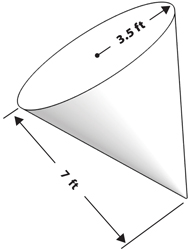
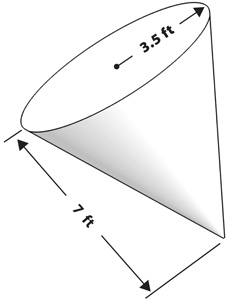
cc.1, v.1 corrections- v.1, resize illustration 7x3.5 cone problem 8

diff --git a/app/data372/data_v_1.js b/app/data372/data_v_1.js
@@ -1354,7 +1354,7 @@ angular.module('mathSkills').service('data_v_1', ['dataUtils', function (dataUti
 					ansDen: '25',
 					measure: 'ft',
 					solution: dataUtils.pre(
-							'\\pan{2}{10}'
+							'\\pan{3}{9}'
 								+'{\\css'
 									+'{\\rowgrp'
 										+'{\\str{$$answerInstructions}}'
@@ -1383,10 +1383,13 @@ angular.module('mathSkills').service('data_v_1', ['dataUtils', function (dataUti
 												+'{width140}'
 											+'}'
 											+'{\\str{V = }}'
-											+'{\\frac'
+											+'{\\css'
+												+'{\\frac'
 													+'{\\str{1}}'
 													+'{\\str{3}}'
 												+'}'
+												+'{fracNoMargin}'
+											+'}'
 											+'{\\str{*}}'
 											+'{\\str{&pi;}}'
 											+'{\\str{*}}'
@@ -1401,14 +1404,20 @@ angular.module('mathSkills').service('data_v_1', ['dataUtils', function (dataUti
 												+'{width140}'
 											+'}'
 											+'{\\str{V = }}'
-											+'{\\frac'
+											+'{\\css'
+												+'{\\frac'
 													+'{\\str{1}}'
 													+'{\\str{3}}'
 												+'}'
+												+'{fracNoMargin}'
+											+'}'
 											+'{\\str{*}}'
-											+'{\\frac'
-												+'{\\str{22}}'
-												+'{\\str{7}}'
+											+'{\\css'
+												+'{\\frac'
+													+'{\\str{22}}'
+													+'{\\str{7}}'
+												+'}'
+												+'{fracNoMargin}'
 											+'}'
 											+'{\\str{*}}'
 											+'{\\exp'
@@ -1429,12 +1438,15 @@ angular.module('mathSkills').service('data_v_1', ['dataUtils', function (dataUti
 												+'{\\str{2}}'
 											+'}'
 											+'{\\str{*}}'
-											+'{\\mixed'
-												+'{\\str{8}}'
-												+'{\\frac'
-													+'{\\str{1}}'
-													+'{\\str{2}}'
+											+'{\\css'
+												+'{\\mixed'
+													+'{\\str{8}}'
+													+'{\\frac'
+														+'{\\str{1}}'
+														+'{\\str{2}}'
+													+'}'
 												+'}'
+												+'{fracNoMargin}'
 											+'}'
 										+'}'
 										+'{\\str{&nbsp;}}'
@@ -1483,7 +1495,7 @@ angular.module('mathSkills').service('data_v_1', ['dataUtils', function (dataUti
 					ansDen: '21',
 					measure: 'ft',
 					solution: dataUtils.pre(
-							'\\pan{2}{10}'
+							'\\pan{3}{9}'
 								+'{\\css'
 									+'{\\rowgrp'
 										+'{\\str{$$answerInstructions}}'
@@ -1512,10 +1524,13 @@ angular.module('mathSkills').service('data_v_1', ['dataUtils', function (dataUti
 												+'{width140}'
 											+'}'
 											+'{\\str{V = }}'
-											+'{\\frac'
+											+'{\\css'
+												+'{\\frac'
 													+'{\\str{1}}'
 													+'{\\str{3}}'
 												+'}'
+												+'{fracNoMargin}'
+											+'}'
 											+'{\\str{*}}'
 											+'{\\str{&pi;}}'
 											+'{\\str{*}}'
@@ -1530,14 +1545,20 @@ angular.module('mathSkills').service('data_v_1', ['dataUtils', function (dataUti
 												+'{width140}'
 											+'}'
 											+'{\\str{V = }}'
-											+'{\\frac'
+											+'{\\css'
+												+'{\\frac'
 													+'{\\str{1}}'
 													+'{\\str{3}}'
 												+'}'
+												+'{fracNoMargin}'
+											+'}'
 											+'{\\str{*}}'
-											+'{\\frac'
-												+'{\\str{22}}'
-												+'{\\str{7}}'
+											+'{\\css'
+												+'{\\frac'
+													+'{\\str{22}}'
+													+'{\\str{7}}'
+												+'}'
+												+'{fracNoMargin}'
 											+'}'
 											+'{\\str{*}}'
 											+'{\\exp'
@@ -1558,12 +1579,15 @@ angular.module('mathSkills').service('data_v_1', ['dataUtils', function (dataUti
 												+'{\\str{2}}'
 											+'}'
 											+'{\\str{*}}'
-											+'{\\mixed'
-												+'{\\str{4}}'
-												+'{\\frac'
-													+'{\\str{1}}'
-													+'{\\str{2}}'
+											+'{\\css'
+												+'{\\mixed'
+													+'{\\str{4}}'
+													+'{\\frac'
+														+'{\\str{1}}'
+														+'{\\str{2}}'
+													+'}'
 												+'}'
+												+'{fracReducedRightMargin}'
 											+'}'
 										+'}'
 										+'{\\str{&nbsp;}}'

diff --git a/app/data372/data_cc_1.js b/app/data372/data_cc_1.js
@@ -1563,7 +1563,26 @@ angular.module('mathSkills').service('data_cc_1', ['dataUtils', function (dataUt
 											+'}'
 											+'{fracNoMargin}'
 										+'}'
-										+'{\\str{ * <strong>(5)</strong> = 1 * <strong>(5)</strong>}}'
+										+'{\\str{ * }}'
+										+'{\\str{(}}'
+										+'{\\css'
+											+'{\\frac'
+												+'{\\str{<strong>5</strong>}}'
+												+'{\\str{<strong>1</strong>}}'
+											+'}'
+											+'{fracNoMargin}'
+										+'}'
+										+'{\\str{)}}'
+										+'{\\str{ = 1 * }}'
+										+'{\\str{(}}'
+										+'{\\css'
+											+'{\\frac'
+												+'{\\str{<strong>5</strong>}}'
+												+'{\\str{<strong>1</strong>}}'
+											+'}'
+											+'{fracNoMargin}'
+										+'}'
+										+'{\\str{)}}'
 						),
 					secondHelpResult: 'x = 5',
 					helpStringAnswer: '<span class=fontsize110>x</span> &nbsp;<span class=fontsize110>=</span> &nbsp;5',
@@ -1689,7 +1708,26 @@ angular.module('mathSkills').service('data_cc_1', ['dataUtils', function (dataUt
 											+'}'
 											+'{fracNoMargin}'
 										+'}'
-										+'{\\str{ * <strong>(7)</strong> = 12 * <strong>(7)</strong>}}'
+										+'{\\str{ * }}'
+										+'{\\str{(}}'
+										+'{\\css'
+											+'{\\frac'
+												+'{\\str{<strong>7</strong>}}'
+												+'{\\str{<strong>1</strong>}}'
+											+'}'
+											+'{fracNoMargin}'
+										+'}'
+										+'{\\str{)}}'
+										+'{\\str{ = 12 * }}'
+										+'{\\str{(}}'
+										+'{\\css'
+											+'{\\frac'
+												+'{\\str{<strong>7</strong>}}'
+												+'{\\str{<strong>1</strong>}}'
+											+'}'
+											+'{fracNoMargin}'
+										+'}'
+										+'{\\str{)}}'
 						),
 					secondHelpResult: 'a = 84',
 					helpStringAnswer: '<span class=fontsize110>a</span> &nbsp;<span class=fontsize110>=</span> &nbsp;84',
@@ -1876,7 +1914,7 @@ angular.module('mathSkills').service('data_cc_1', ['dataUtils', function (dataUt
 										+'{\\html{&nbsp;}}'
 										+'{\\grp'
 											+'{\\css'
-												+'{\\str{1st: Add 6.}}'
+												+'{\\str{1st: Subtract 4.}}'
 												+'{width220}'
 											+'}'
 											+'{$$helpFirstPiece}'
